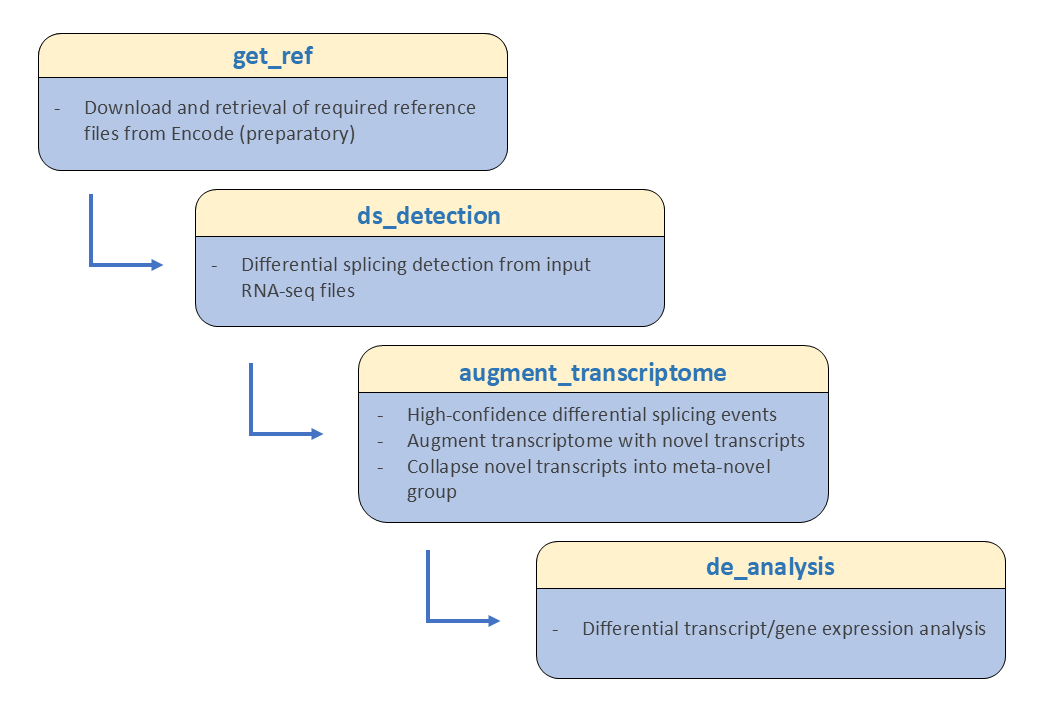
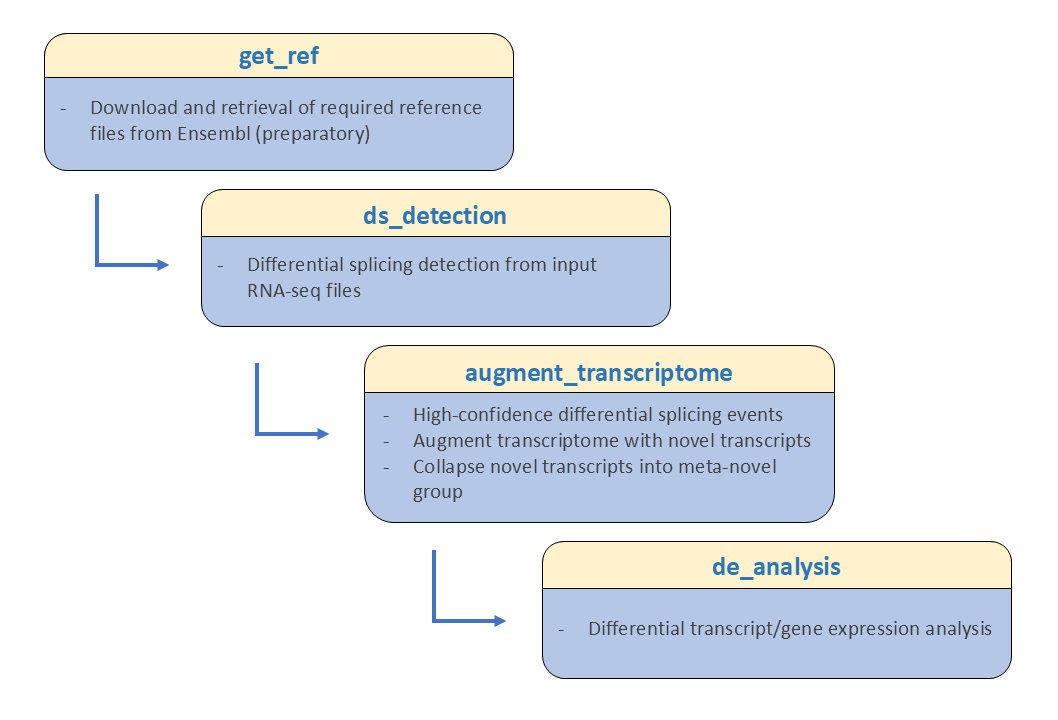
changes to primary readme

diff --git a/README.md b/README.md
@@ -5,9 +5,10 @@
 # SpliCeAT: Integrated pipeline for detection and quantification of aberrant transcripts with novel splicing events
 
 This repository contains the following Snakemake pipelines and scripts, to be run in this order:
-1. Differential splicing detection (`ds_detection`)
-2. Generation of augmented transcriptome (`augment_transcriptome`)
-3. Differential expression analysis (`de_analysis`)
+-> Preparatory Step (`00_get_ref`) [^1]
+1. Differential splicing detection (`01_ds_detection`)
+2. Generation of augmented transcriptome (`02_augment_transcriptome`)
+3. Differential expression analysis (`03_de_analysis`)
 
 <p align="center">
   <img src="images/Workflow.png" width="550">
@@ -15,11 +16,13 @@ This repository contains the following Snakemake pipelines and scripts, to be ru
 
 ### What you need *before* starting:
 - FASTQ sample files of 2 conditions (control & treatment)
-- Aligned BAM files using STAR, indexed using samtools [^1]
+- Aligned BAM files using STAR, indexed using samtools [^2]
 
 ### Start here:
 ```
-git clone -b resturcutre https://github.com/meg-hz/SpliCeAT.git
+git clone -b restructure https://github.com/meg-hz/SpliCeAT.git
 ```
 
-[^1]: The pipelines expect RNA-seq alignments/BAM files to be labelled as `sample_Aligned.sortedByCoord.out.bam` (as in STAR output format). Nevertheless, modifications can be made (at the user's discretion) in the Snakemake rules to account for alignments generated by other tools (e.g. HISAT2). Also note that the corresponding indexed file (`sample_Aligned.sortedByCoord.out.bam.bai`) must also be present in thesame folder
+[^1]: this step isn't required if user ir providing their own reference files
+
+[^2]: The pipelines expect RNA-seq alignments/BAM files to be labelled as `sample_Aligned.sortedByCoord.out.bam` (as in STAR output format). Nevertheless, modifications can be made (at the user's discretion) in the Snakemake rules to account for alignments generated by other tools (e.g. HISAT2). Also note that the corresponding indexed file (`sample_Aligned.sortedByCoord.out.bam.bai`) must also be present in thesame folder